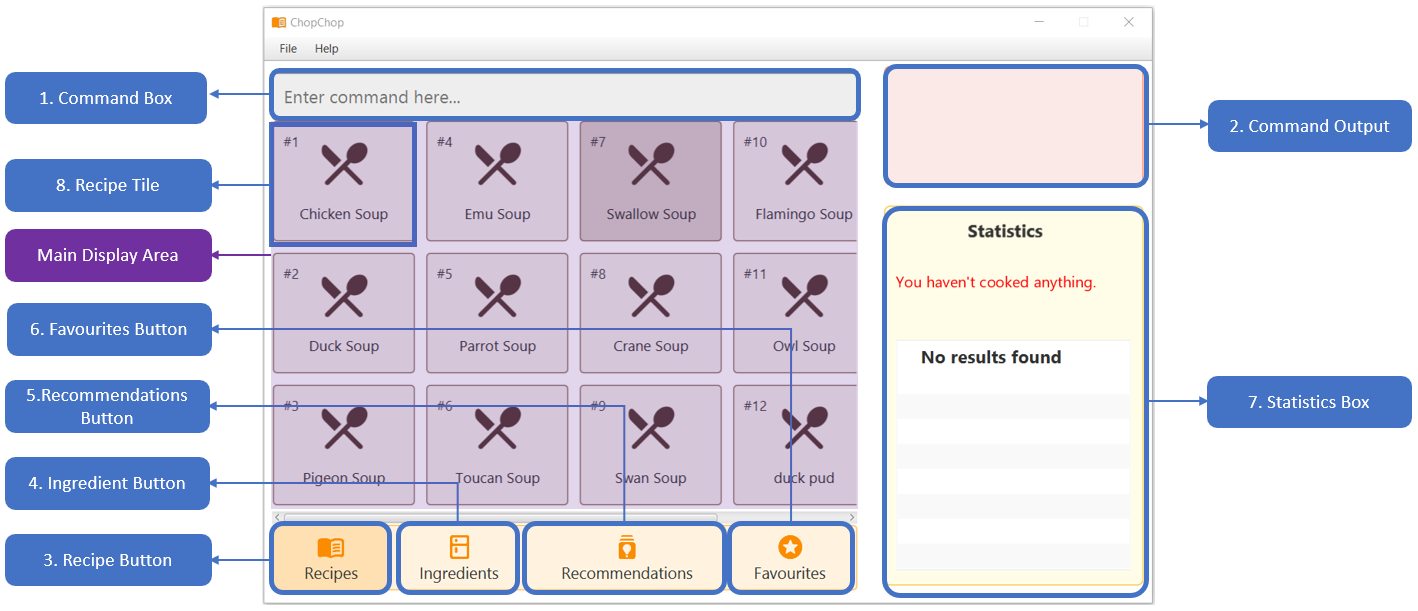
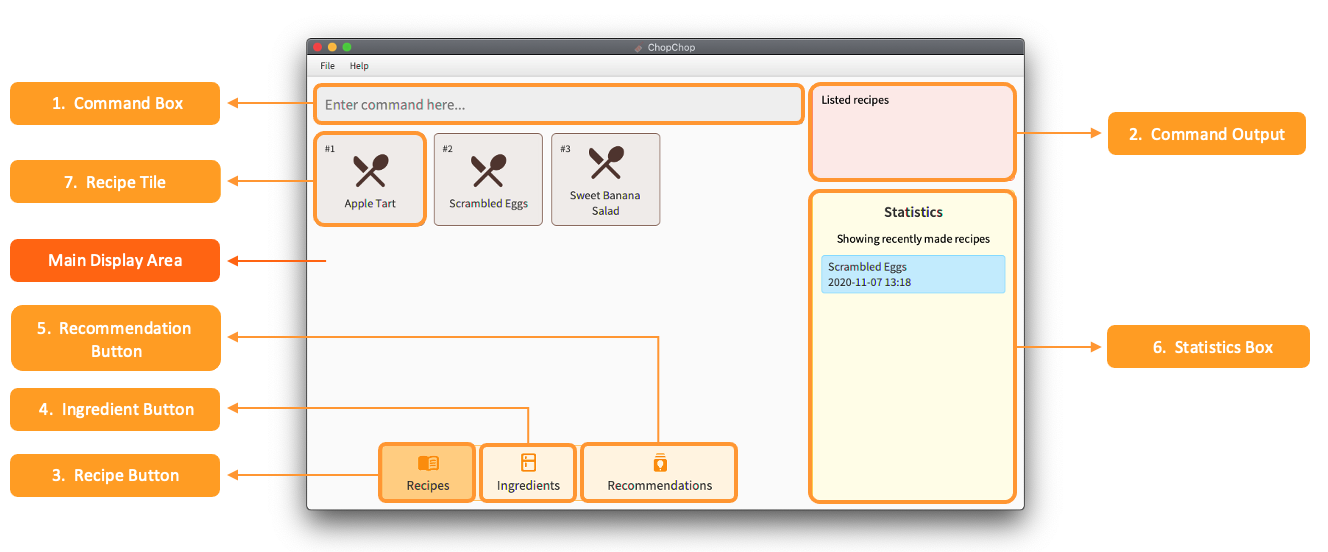
Replace annotated diagrams

diff --git a/docs/UserGuide.md b/docs/UserGuide.md
@@ -109,11 +109,11 @@ Specifically, this section covers:
 3. [Recipe Button](#RecipeButton)
 4. [Ingredient Button](#IngredientButton)
 5. [Recommendation Button](#RecommendationButton)
-6. [Favourites Button](#FavouriteButton)
-7. [Statistics Box](#StatisticsBox)
-8. [Recipe Tile](#RecipeTiles)
-9. [Ingredient Tile](#IngredientTiles)
-10. [Recipe Name and Tags](#RecipeName)
+6. [Statistics Box](#StatisticsBox)
+7. [Recipe Tile](#RecipeTiles)
+8. [Ingredient Tile](#IngredientTiles)
+9. [Recipe Name](#RecipeName)
+10. [Recipe Tags](#RecipeTags)
 11. [Recipe Ingredients](#RecipeIngredients)
 12. [Recipe Steps](#RecipeSteps)
 13. [Menu Bar](#MenuBar)
@@ -162,15 +162,8 @@ ChopChop is able to recommend you recipes to cook if you want it to! The recipes
 
 
 
-<a name="FavouriteButton"></a>
-### 4.6&ensp;Favourite Button
-{:.no_toc}
-ChopChop is able to save your favourite recipes — press the `Favourites` button to view them as [Recipe Tiles](#RecipeTiles).
-
-
-
 <a name="StatisticsBox"></a>
-### 4.7&ensp;Statistics Box
+### 4.6&ensp;Statistics Box
 {:.no_toc}
 ChopChop is able to produce statistics based on the food you make! To view your ingredient or recipe usage statistics, simply input into the `Command Box` one of the `stats` [commands available](#GroupStatsCommands).
 
@@ -178,14 +171,14 @@ ChopChop is able to produce statistics based on the food you make! To view your 
 
 
 <a name="RecipeTiles"></a>
-### 4.8&ensp;Recipe Tiles
+### 4.7&ensp;Recipe Tiles
 {:.no_toc}
 ChopChop is able to show you your recipes in the form of tiles — simply click on a tile to view the detailed information about the selected recipe in the `Main Display Area`, as shown in Figure 1.4.
 
 
 
 <a name="IngredientTiles"></a>
-### 4.9&ensp;Ingredient Tiles
+### 4.8&ensp;Ingredient Tiles
 {:.no_toc}
 ChopChop is able to show you your ingredients in the form of tiles, as shown in Figure 1.3. In each tile, there are 5 components:
 
@@ -209,9 +202,16 @@ Figure 1.4: <i>The Recipe Display Panel of ChopChop.</i>
 
 
 <a name="RecipeName"></a>
-### 4.10&ensp;Recipe Name and Tags
+### 4.9&ensp;Recipe Name
 {:.no_toc}
-ChopChop displays the name of the recipe, and the tags associated with it in this area.
+ChopChop displays the name of the recipe here.
+
+
+
+<a name="RecipeTags"></a>
+### 4.10&ensp;Recipe Tags
+{:.no_toc}
+ChopChop displays the tags associated with this recipe here.
 
 
 
